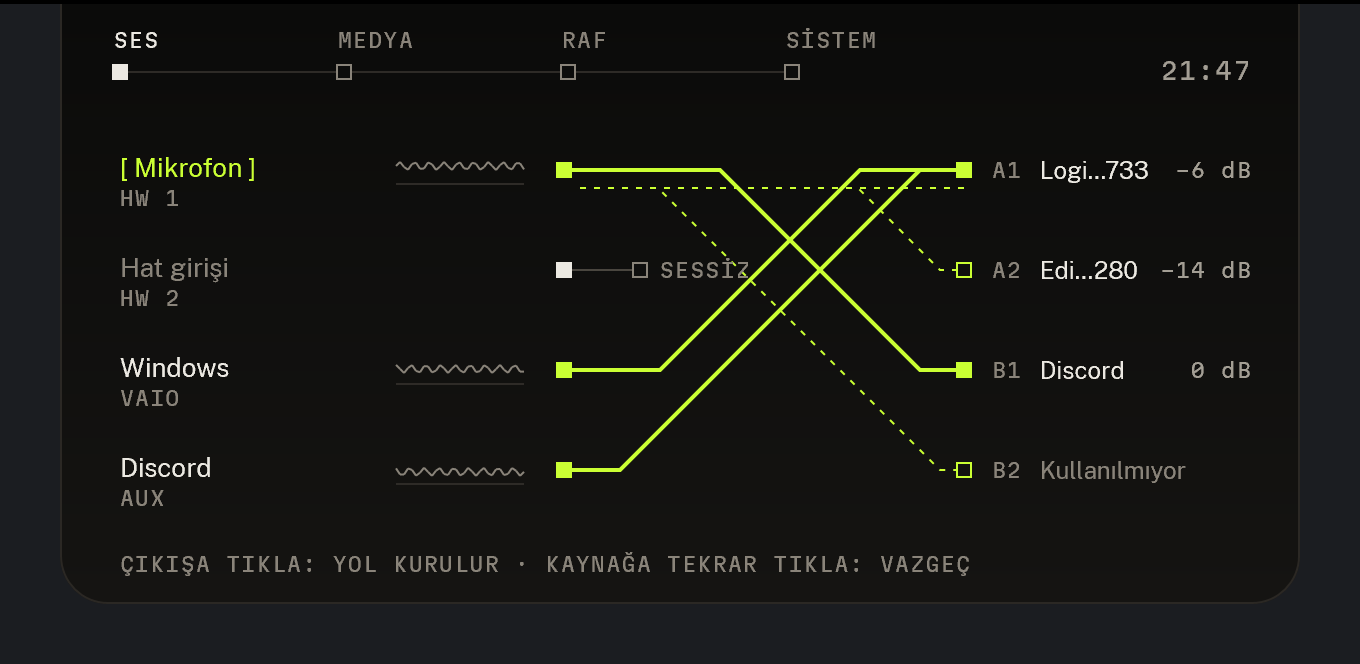
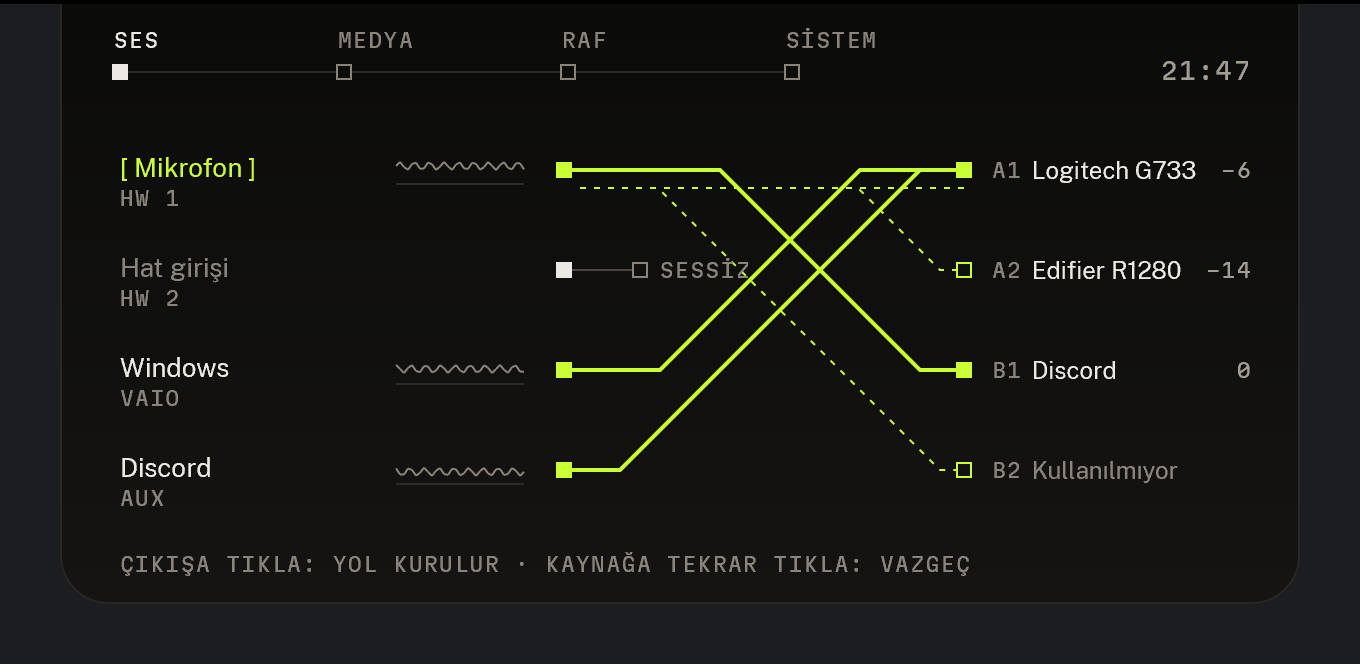
fix(core): read-only media route, value copy
- Drop the reachable output branch from the media page: the route
  stays read-only in R4
- Print bus gains as bare signed numbers (-6, 0, +3) and start output
  names at XO + 34, so short device names are never trimmed
- Mark the unused placeholder bus with OutputRow.unnamed instead of
  comparing its Turkish name
- Note why the brightness value uses the clock role (mono 12)
- Refresh the review set; drop the Gece theme duplicate of 01

diff --git a/crates/plith-core/src/pages/audio/layout.rs b/crates/plith-core/src/pages/audio/layout.rs
@@ -10,7 +10,7 @@ use std::sync::Arc;
 
 use super::{
     AudioView, DENSE_ABOVE, Footer, MAX_OUTPUT_SLOTS, OutputRow, OutputValue, PITCH_DENSE,
-    PITCH_MIN, PITCH_NORMAL, PickMode, RouteState, SourceRow, UNUSED_NAME,
+    PITCH_MIN, PITCH_NORMAL, PickMode, RouteState, SourceRow,
 };
 use crate::draw::{Align, DisplayList, Ink, LiveNode, LiveRail, Node, Rect, TextStyle, Trim};
 use crate::pages::kit::rect;
@@ -56,9 +56,10 @@ const TRACE_W: f64 = 64.0;
 const TRACE_HALF: f64 = 8.0;
 /// Width of a source name, up to the trace slot.
 const SOURCE_NAME_W: f64 = TRACE_X - 8.0 - MARGIN_LEFT;
-/// Output tag x (mock `XO + 14`) and name x after a tag (mock `XO + 38`).
+/// Output tag x (mock `XO + 14`) and name x after a tag: the mock's `XO + 38` moved in to
+/// `XO + 34` (the two-character mono tag ends near `XO + 29`), so device names keep 4 DIP more.
 const TAG_X: f64 = OUTPUT_X + 14.0;
-const TAG_NAME_X: f64 = OUTPUT_X + 38.0;
+const TAG_NAME_X: f64 = OUTPUT_X + 34.0;
 /// Advance of one value character (Martian Mono 10 with 0.06 em tracking), used to keep the
 /// name clear of the value.
 const VALUE_CHAR_W: f64 = 7.4;
@@ -103,14 +104,19 @@ fn text(r: Rect, s: &str, style: TextStyle, ink: Ink, align: Align, trim: Trim) 
     }
 }
 
-/// The value copy: `0 dB` / `-6 dB` rounded, a bare percent, or nothing.
+/// The value copy: a gain as a bare signed whole number (`-6`, `0`, `+3`, like the mock's
+/// `62`), a bare percent, or nothing.
 fn format_value(value: OutputValue) -> String {
     match value {
         OutputValue::Db(db) => {
             #[allow(clippy::cast_possible_truncation)]
             // Gains are within -60..12 dB, the rounded value fits an i32.
             let whole = db.round() as i32;
-            format!("{whole} dB")
+            if whole > 0 {
+                format!("+{whole}")
+            } else {
+                whole.to_string()
+            }
         }
         OutputValue::Percent(p) => p.to_string(),
         OutputValue::None => String::new(),
@@ -320,7 +326,7 @@ fn output_row(
     // The mock: a named bus reads in ink even with no route; only the unused bus is faint.
     let name_ink = if !has_voicemeeter(view) {
         if row.used { Ink::Ink } else { Ink::Muted }
-    } else if !row.used && row.name == UNUSED_NAME {
+    } else if row.unnamed {
         Ink::Faint
     } else {
         Ink::Ink

diff --git a/crates/plith-core/src/pages/audio/layout/tests.rs b/crates/plith-core/src/pages/audio/layout/tests.rs
@@ -25,6 +25,7 @@ fn bus(tag: &str, name: &str, value: OutputValue, live: bool) -> OutputRow {
         muted: false,
         id: None,
         used: true,
+        unnamed: false,
     }
 }
 
@@ -51,6 +52,7 @@ fn mock_view() -> AudioView {
             bus("B1", "Discord", OutputValue::Db(0.0), true),
             OutputRow {
                 used: false,
+                unnamed: true,
                 ..bus(
                     "B2",
                     "Kullan\u{131}lm\u{131}yor",
@@ -90,6 +92,7 @@ fn endpoint(name: &str, id: &str, value: OutputValue) -> OutputRow {
         muted: false,
         id: Some(id.into()),
         used: false,
+        unnamed: false,
     }
 }
 
@@ -343,20 +346,19 @@ fn outputs_show_tag_name_and_value() {
     assert_eq!(text_count(n, "A2"), 1, "tag drawn once when it is the name");
     assert!(text_node(n, "A1").is_some());
     assert!(text_node(n, "Logitech G733").is_some());
-    assert!(
-        text_node(n, "-6 dB").is_some(),
-        "renamed row keeps its value"
-    );
-    assert_eq!(text_count(n, "0 dB"), 2, "A1 and B2; B1 is muted");
+    assert!(text_node(n, "-6").is_some(), "renamed row keeps its value");
+    assert_eq!(text_count(n, "0"), 2, "A1 and B2; B1 is muted");
     assert_eq!(text_count(n, "SESS\u{130}Z"), 2, "cut line and muted B1");
-    let Some(Node::Text { rect, .. }) = text_node(n, "0 dB") else {
+    let Some(Node::Text { rect, .. }) = text_node(n, "0") else {
         panic!("value missing");
     };
     assert_eq!(rect.x + rect.w, VALUE_RIGHT);
     let page = audio_page(&windows_view("Edifier R1280"), "21:47");
     assert!(text_node(&page.list.nodes, "62").is_some());
-    assert_eq!(format_value(OutputValue::Db(-6.4)), "-6 dB");
-    assert_eq!(format_value(OutputValue::Db(-0.3)), "0 dB");
+    // A bare signed integer, like the mock's 62 and 40: no unit to crowd the name.
+    assert_eq!(format_value(OutputValue::Db(-6.4)), "-6");
+    assert_eq!(format_value(OutputValue::Db(-0.3)), "0");
+    assert_eq!(format_value(OutputValue::Db(3.0)), "+3");
     assert_eq!(format_value(OutputValue::None), "");
 }
 

diff --git a/crates/plith-core/src/pages/media.rs b/crates/plith-core/src/pages/media.rs
@@ -38,9 +38,6 @@ pub struct MediaFacts {
     pub timeline: Option<SeekTimeline>,
     /// The output route text after the arrow (for example `A1 · G733`).
     pub output: Option<String>,
-    /// Another output the source could move to, drawn as a branch with a hollow station (for
-    /// example `A2 · EDIFIER`).
-    pub reachable: Option<String>,
 }
 
 /// The ruler rectangle, used for the seek hit area and the seek fraction.
@@ -71,10 +68,6 @@ const ROUTE_Y_EMPTY: f64 = 124.0;
 /// Route line start x and end x (mock 96 and 380).
 const ROUTE_X0: f64 = 96.0;
 const ROUTE_X1: f64 = 380.0;
-/// The reachable branch: leaves the route at x 300, drops 20 at 45 degrees, ends at x 470.
-const BRANCH_X: f64 = 300.0;
-const BRANCH_DROP: f64 = 20.0;
-const BRANCH_END_X: f64 = 470.0;
 
 /// `m:ss`, or `h:mm:ss` from one hour.
 #[must_use]
@@ -225,29 +218,7 @@ fn session_body(facts: &MediaFacts, nodes: &mut Vec<Node>, targets: &mut Vec<Hit
             output,
             facts.playing,
         );
-        if let Some(reachable) = &facts.reachable {
-            reachable_branch(nodes, ROUTE_Y, reachable);
-        }
     }
-}
-
-/// Another output the source can move to: a track branch leaving the route at x 300 at 45
-/// degrees, a hollow station and a faint label (mock `mediaPage()`, `ry + 20`).
-fn reachable_branch(nodes: &mut Vec<Node>, y: f64, label: &str) {
-    let (y2, end) = (y + BRANCH_DROP, BRANCH_END_X);
-    nodes.push(line(
-        vec![(BRANCH_X, y), (BRANCH_X + BRANCH_DROP, y2), (end, y2)],
-        1.0,
-        Ink::Track,
-    ));
-    nodes.push(station(end, y2, StationMark::Hollow, Ink::Faint));
-    nodes.push(text(
-        rect(end + 12.0, y2 - 6.0, PAGE_W - 30.0 - end - 12.0, 12.0),
-        label,
-        TextStyle::Label,
-        Ink::Faint,
-        Align::Start,
-    ));
 }
 
 fn ruler(facts: &MediaFacts, timeline: SeekTimeline, nodes: &mut Vec<Node>) -> Option<HitTarget> {

diff --git a/crates/plith-render/tests/text.rs b/crates/plith-render/tests/text.rs
@@ -148,3 +148,45 @@ fn bundled_faces_resolve_to_the_exact_weights() {
         );
     }
 }
+
+/// What the renderer shows for the first text node reading `wanted` in `nodes`.
+fn shown(text: &mut TextSystem, nodes: &[plith_core::draw::Node], wanted: &str) -> String {
+    let (rect, style, trim) = nodes
+        .iter()
+        .find_map(|n| match n {
+            plith_core::draw::Node::Text {
+                rect,
+                text,
+                style,
+                trim,
+                ..
+            } if &**text == wanted => Some((*rect, *style, *trim)),
+            _ => None,
+        })
+        .unwrap_or_else(|| panic!("{wanted} missing"));
+    #[allow(clippy::cast_possible_truncation)]
+    let width = rect.w as f32;
+    text.display_text(wanted, style, width, trim).unwrap()
+}
+
+#[test]
+fn short_device_names_stay_whole_and_long_ones_trim_in_the_middle() {
+    use plith_core::pages::audio::{PickMode, audio_page, audio_view};
+    use plith_core::pages::fixtures;
+    let mut text = system();
+    let (activity, now) = fixtures::banana_activity();
+    let view = audio_view(&fixtures::banana(), &activity, PickMode::None, now);
+    let page = audio_page(&view, fixtures::CLOCK);
+    for name in ["Logitech G733", "Edifier R1280"] {
+        assert_eq!(shown(&mut text, &page.list.nodes, name), name);
+    }
+    let long = "Hoparl\u{f6}r (Realtek High Definition Audio)";
+    assert_eq!(long.chars().count(), 40);
+    let mut facts = fixtures::no_voicemeeter();
+    facts.endpoints[1].name = long.to_string();
+    let view = audio_view(&facts, &activity, PickMode::None, now);
+    let page = audio_page(&view, fixtures::CLOCK);
+    let got = shown(&mut text, &page.list.nodes, long);
+    assert_ne!(got, long);
+    assert!(got.contains('\u{2026}'), "{got}");
+}

diff --git a/crates/plith-core/src/pages/media/tests.rs b/crates/plith-core/src/pages/media/tests.rs
@@ -27,7 +27,6 @@ fn facts() -> MediaFacts {
         can_prev: true,
         timeline: Some(timeline()),
         output: Some("A1 \u{b7} G733".into()),
-        reachable: None,
     }
 }
 
@@ -325,36 +324,6 @@ fn enabled_transport_is_filled_ink() {
         .filter(|n| matches!(n, Node::Polygon { ink: Ink::Ink, .. }))
         .count();
     assert_eq!(play, 3, "two skips and the play triangle");
-}
-
-#[test]
-fn reachable_output_branches_off_the_route() {
-    // Mock lines 211 to 214: a track branch to a hollow station and a faint label.
-    let page = media_page(
-        &MediaFacts {
-            reachable: Some("A2 · EDIFIER".into()),
-            ..facts()
-        },
-        "21:47",
-    );
-    let n = &page.list.nodes;
-    assert!(n.iter().any(
-        |n| matches!(n, Node::Stroke { points, ink: Ink::Track, width, .. }
-        if *points == vec![(300.0, 196.0), (320.0, 216.0), (470.0, 216.0)] && *width == 1.0)
-    ));
-    assert!(n.iter().any(
-        |n| matches!(n, Node::Station { x, y, mark: StationMark::Hollow, ink: Ink::Faint }
-        if *x == 470.0 && *y == 216.0)
-    ));
-    assert!(texts(n).contains(&("A2 · EDIFIER".to_string(), TextStyle::Label)));
-    let plain = media_page(&facts(), "21:47");
-    assert!(
-        !plain
-            .list
-            .nodes
-            .iter()
-            .any(|n| matches!(n, Node::Station { y, .. } if *y == 216.0))
-    );
 }
 
 #[test]

diff --git a/crates/plith-core/src/pages/audio/model.rs b/crates/plith-core/src/pages/audio/model.rs
@@ -163,7 +163,8 @@ fn bus_row(vm: &VmFacts, b: usize) -> OutputRow {
         UNUSED_NAME.to_string()
     };
     // The mock shows no value on an unused, unnamed bus.
-    let value = if name == UNUSED_NAME {
+    let unnamed = name == UNUSED_NAME;
+    let value = if unnamed {
         OutputValue::None
     } else {
         OutputValue::Db(bus.gain_db)
@@ -176,6 +177,7 @@ fn bus_row(vm: &VmFacts, b: usize) -> OutputRow {
         muted: bus.muted,
         id: None,
         used: false,
+        unnamed,
     }
 }
 
@@ -208,6 +210,7 @@ fn windows(facts: &AudioFacts) -> Parts {
                 muted: Some(i) == default_idx && muted,
                 id: Some(e.id.clone()),
                 used: false,
+                unnamed: false,
             }
         })
         .collect();

diff --git a/crates/plith-core/src/pages/fixtures/tests.rs b/crates/plith-core/src/pages/fixtures/tests.rs
@@ -155,7 +155,7 @@ fn output_rows_use_the_mock_sizes() {
         })
     };
     assert_eq!(style_of("Logitech G733"), Some(TextStyle::Body));
-    assert_eq!(style_of("-6 dB"), Some(TextStyle::Value));
+    assert_eq!(style_of("-6"), Some(TextStyle::Value));
     assert_eq!(style_of("Mikrofon"), Some(TextStyle::Name));
 }
 
@@ -179,7 +179,7 @@ fn named_buses_read_in_ink_and_the_unused_bus_stays_quiet() {
         .list
         .nodes
         .iter()
-        .filter(|n| matches!(n, Node::Text { text, .. } if &**text == "0 dB"))
+        .filter(|n| matches!(n, Node::Text { text, .. } if &**text == "0"))
         .count();
     assert_eq!(zero_db, 1, "B1 only; the unused B2 has no value");
 }

diff --git a/crates/plith-core/src/pages/audio.rs b/crates/plith-core/src/pages/audio.rs
@@ -108,6 +108,8 @@ pub enum OutputValue {
 }
 
 /// An output row.
+// Allowed: four independent facts of one row, not a hidden state machine.
+#[allow(clippy::struct_excessive_bools)]
 #[derive(Debug, Clone, PartialEq)]
 pub struct OutputRow {
     /// Bus tag such as `A1`; `None` for Windows endpoints.
@@ -124,6 +126,8 @@ pub struct OutputRow {
     pub id: Option<String>,
     /// Whether any route (live, idle or cut) ends here.
     pub used: bool,
+    /// Whether the bus has no label and no route, so its name is the unused placeholder.
+    pub unnamed: bool,
 }
 
 /// How a route is drawn.

diff --git a/crates/plith-render/examples/render_pages.rs b/crates/plith-render/examples/render_pages.rs
@@ -264,7 +264,6 @@ fn main() -> std::result::Result<(), Box<dyn std::error::Error>> {
     let (activity, now) = fixtures::banana_activity();
     let view = audio_view(&fixtures::banana(), &activity, PickMode::None, now);
     let themes = [
-        ("gece", Theme::Gece),
         ("kagit", Theme::Kagit),
         ("york", Theme::York),
         ("sodyum", Theme::Sodyum),

diff --git a/crates/plith-core/src/pages/system.rs b/crates/plith-core/src/pages/system.rs
@@ -135,6 +135,7 @@ fn brightness_row(
     nodes.push(text(
         rect(RIGHT - 60.0, RULER_Y - 8.0, 60.0, 14.0),
         &percent.to_string(),
+        // The mock sets this value in mono 12, the clock's face and size.
         TextStyle::Clock,
         Ink::Ink,
         Align::End,

diff --git a/crates/plith-core/src/pages/fixtures.rs b/crates/plith-core/src/pages/fixtures.rs
@@ -173,7 +173,6 @@ pub fn media_playing() -> MediaFacts {
             playing: true,
         }),
         output: Some("A1 \u{b7} G733".to_string()),
-        reachable: Some("A2 \u{b7} EDIFIER".to_string()),
     }
 }
 

diff --git a/docs/design/r4/renders-1/README.md b/docs/design/r4/renders-1/README.md
@@ -12,16 +12,17 @@ writes a new `%TEMP%\plith-renders-<seconds>-<pid>` folder each run.
 | `02-audio-pick.png` | Audio, microphone picked: dashed candidates on the rail below it |
 | `03-audio-potato.png` | Audio, Potato 8 x 8 with a few routes (density check, open item 2) |
 | `04-audio-no-voicemeeter.png` | Audio without Voicemeeter: Windows to the default G733, Edifier reachable |
-| `05-media-playing.png` | Media, Midnight City at 1:42 of 4:03, A1 G733 lit, A2 Edifier reachable |
+| `05-media-playing.png` | Media, Midnight City at 1:42 of 4:03, A1 G733 lit (the route is read-only in R4) |
 | `06-media-empty.png` | Media, nothing playing |
 | `07-shelf-empty.png` | Shelf, empty |
 | `08-system.png` | System, brightness 70, microphone open to B1 |
 | `09-system-mic-muted.png` | System, microphone muted: route cut with `KAPALI` |
 | `10-system-no-ddc.png` | System, monitor without DDC/CI |
 | `11-pills.png` | Pill: playing 62, muted, idle |
-| `12-theme-*.png` | The Banana audio page in Gece, Kağıt, York and Sodyum |
+| `12-theme-*.png` | The Banana audio page in Kağıt, York and Sodyum (Gece is `01`) |
 
-Known differences from the mock are listed in the Task 15 report: bus values show dB where the
-mock shows 62 and 40, no clip notch, shorter source captions, no trace without Voicemeeter, no
+Known differences from the mock are listed in the Task 15 report: bus values are gains in dB
+shown as bare signed numbers (`-6`) where the mock shows 62 and 40, no reachable output branch
+on the media page (read-only in R4), no clip notch, shorter source captions, no trace without Voicemeeter, no
 monitor name when DDC/CI is off, and the mock's whole SVG sits 1 DIP right of the engine (its
 1 px island border is outside the SVG origin).
